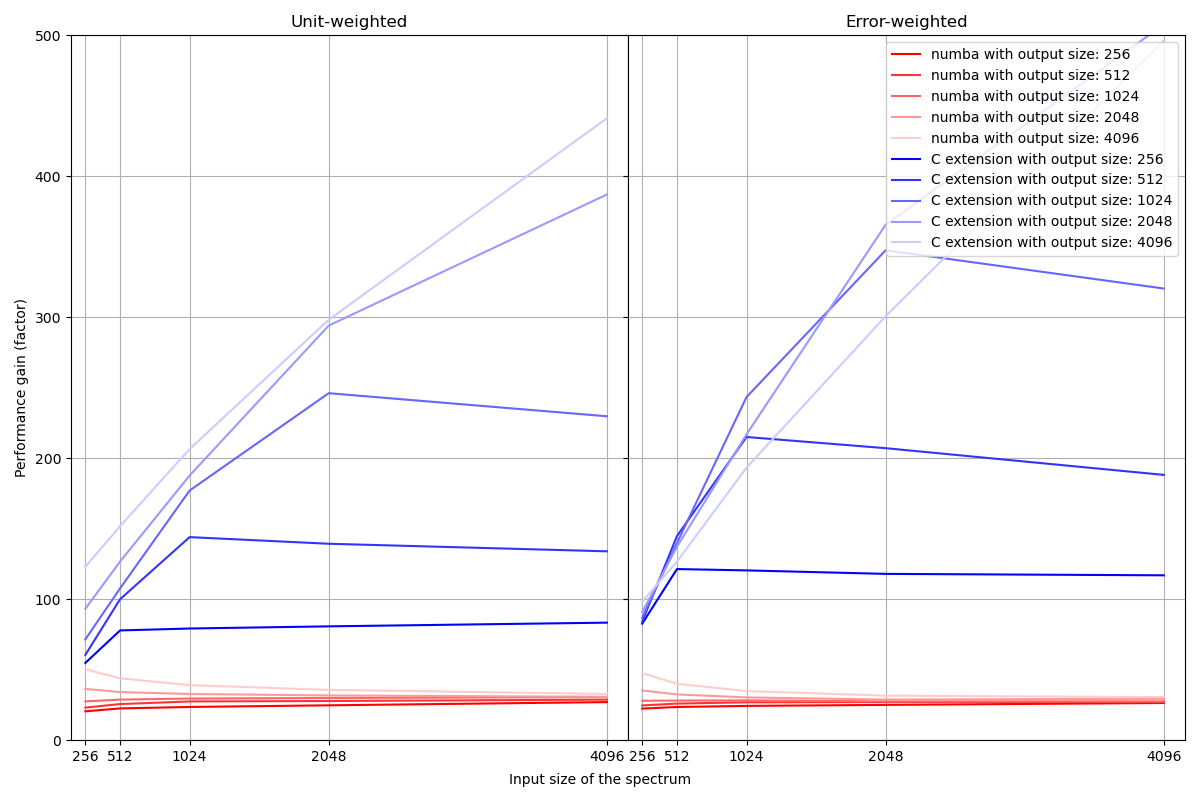
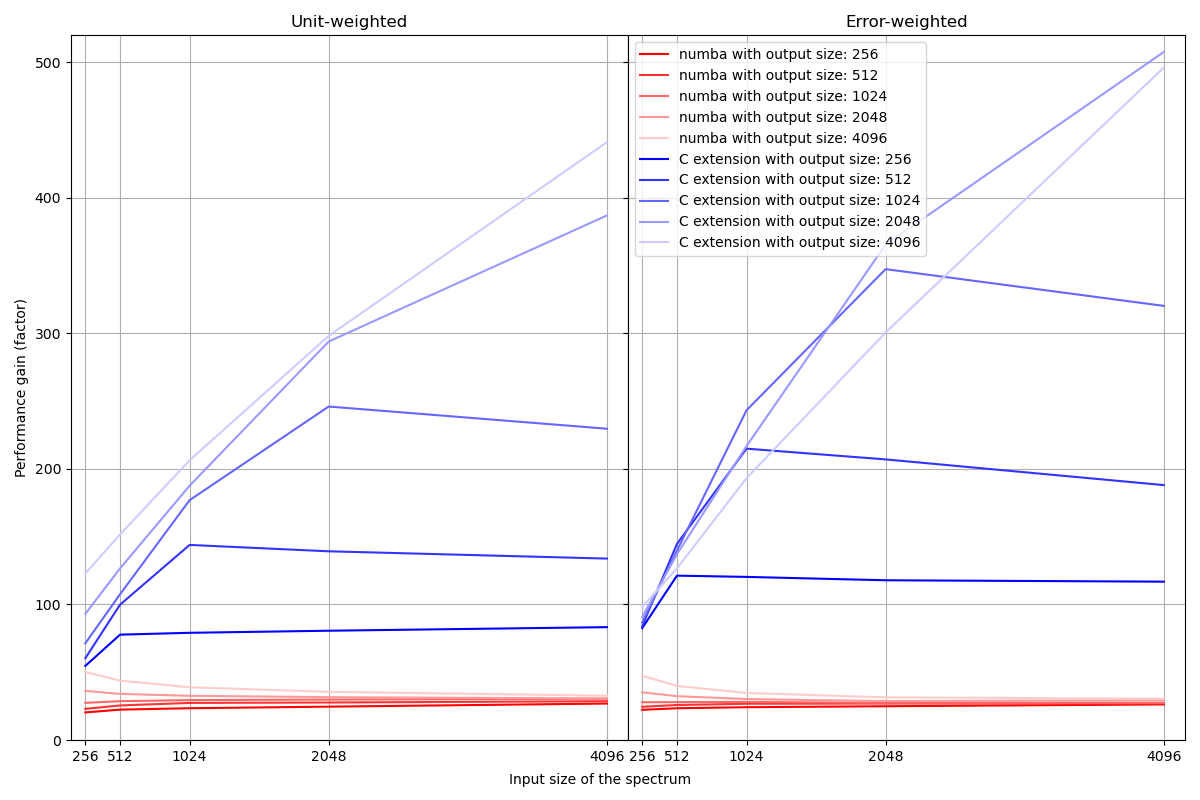
moved legend position

diff --git a/speed_test/plot_speed_test_results.py b/speed_test/plot_speed_test_results.py
@@ -68,7 +68,7 @@ for k, (p_e, c_e, size) in enumerate(
 axs[0].grid()
 axs[1].grid()
 
-axs[1].legend()
+axs[1].legend(loc="upper left")
 
 axs[0].xaxis.set_major_formatter(ScalarFormatter(useMathText=False))
 axs[1].xaxis.set_major_formatter(ScalarFormatter(useMathText=False))
@@ -84,8 +84,8 @@ axs[1].xaxis.set_minor_locator(NullLocator())
 axs[0].set_xlim(150, 4250)
 axs[1].set_xlim(150, 4250)
 
-axs[0].set_ylim(0, 500)
-axs[1].set_ylim(0, 500)
+axs[0].set_ylim(0, 520)
+axs[1].set_ylim(0, 520)
 
 axs[1].set_yticklabels([])
 
